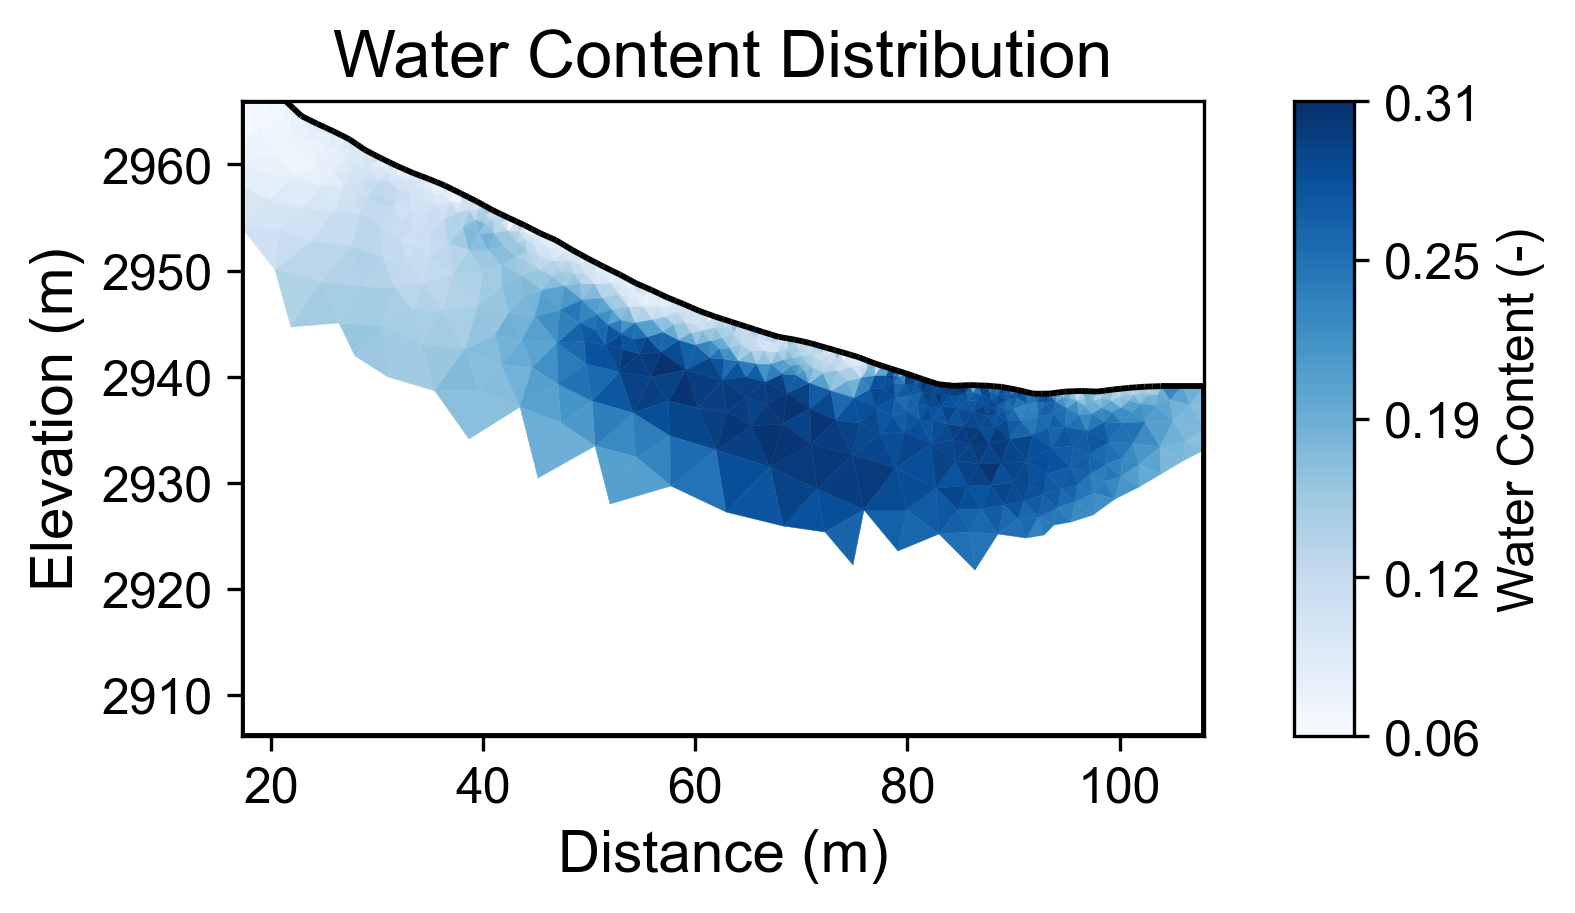
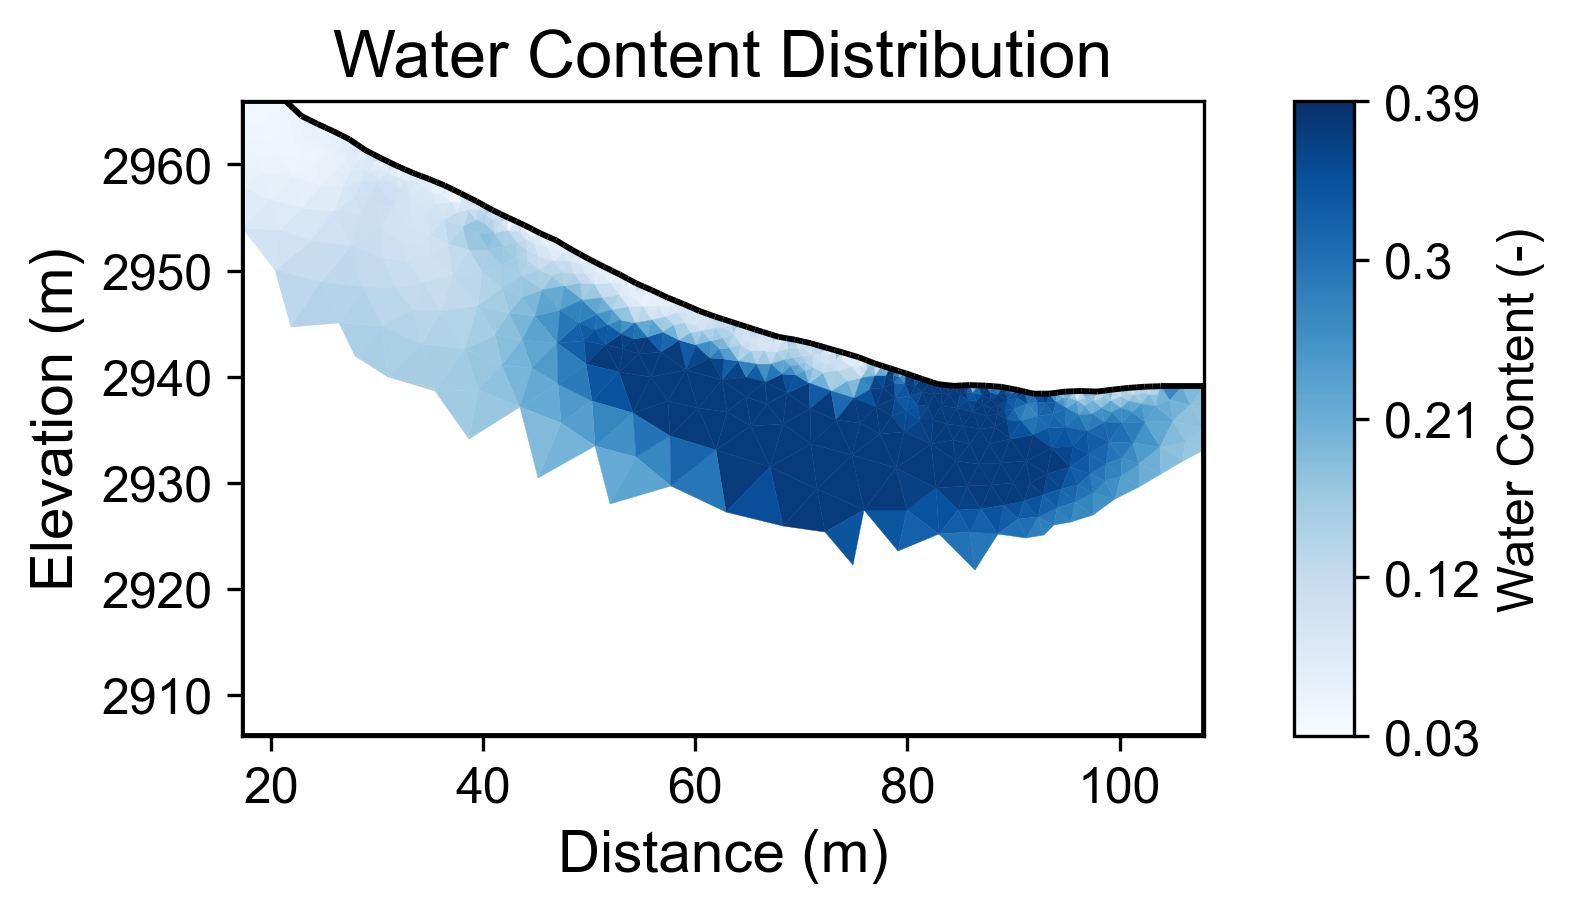
update

diff --git a/PyHydroGeophysX/agents/base_agent.py b/PyHydroGeophysX/agents/base_agent.py
@@ -1047,19 +1047,34 @@ Increasing resistivity indicates soil drying (evapotranspiration or drainage).
                 if layer_params_used:
                     for layer_name, params in layer_params_used.items():
                         params_summary += f"\n  - {layer_name}: "
+
+                        # Helper function to extract value (handles both dict with 'mean' and plain float)
+                        def get_param_value(param):
+                            if isinstance(param, dict):
+                                return param.get('mean', param.get('value', 0))
+                            return param
+
                         if 'rho_sat' in params:
-                            params_summary += f"ρ_sat={params['rho_sat']:.1f}Ωm, "
+                            val = get_param_value(params['rho_sat'])
+                            params_summary += f"ρ_sat={val:.1f}Ωm, "
                         if 'porosity' in params:
-                            params_summary += f"φ={params['porosity']:.2f}, "
+                            val = get_param_value(params['porosity'])
+                            params_summary += f"φ={val:.2f}, "
                         if 'n' in params:
-                            params_summary += f"n={params['n']:.2f}, "
+                            val = get_param_value(params['n'])
+                            params_summary += f"n={val:.2f}, "
                         if 'm' in params:
-                            params_summary += f"m={params['m']:.2f}"
+                            val = get_param_value(params['m'])
+                            params_summary += f"m={val:.2f}"
                 
+                # Format chi2 value safely
+                chi2_val = inversion_results.get('chi2', None)
+                chi2_str = f"{chi2_val:.3f}" if chi2_val is not None and isinstance(chi2_val, (int, float)) else 'N/A'
+
                 interpretation = f"""ERT inversion and petrophysical conversion completed successfully.
 
 **Inversion Results:**
-- Chi-squared misfit: {inversion_results.get('chi2', 'N/A'):.3f}
+- Chi-squared misfit: {chi2_str}
 - Iterations: {inversion_results.get('iterations', 'N/A')}
 
 **Petrophysical Conversion:**
@@ -1229,6 +1244,22 @@ Increasing resistivity indicates soil drying (evapotranspiration or drainage).
                 report_agent = ReportAgent(api_key=api_key, model=llm_model, llm_provider=llm_provider)
                 
                 # Create TDEM-specific report
+                # Format values safely
+                chi2_val = results.get('chi2', None)
+                chi2_str = f"{chi2_val:.3f}" if chi2_val is not None and isinstance(chi2_val, (int, float)) else 'N/A'
+
+                cond_range = results.get('conductivity_range', None)
+                if cond_range and len(cond_range) == 2:
+                    cond_str = f"{cond_range[0]:.4f} - {cond_range[1]:.4f} S/m"
+                else:
+                    cond_str = "N/A"
+
+                res_range = results.get('resistivity_range', None)
+                if res_range and len(res_range) == 2:
+                    res_str = f"{res_range[0]:.1f} - {res_range[1]:.1f} Ωm"
+                else:
+                    res_str = "N/A"
+
                 tdem_report = f"""# TDEM Inversion Report
 
 **Generated by:** PyHydroGeophysX TDEMAgent
@@ -1242,9 +1273,9 @@ Increasing resistivity indicates soil drying (evapotranspiration or drainage).
 
 ### Model Statistics
 - **Number of Layers:** {results.get('n_layers', 'N/A')}
-- **Chi-squared Misfit:** {results.get('chi2', 'N/A'):.3f}
-- **Conductivity Range:** {results.get('conductivity_range', ['N/A', 'N/A'])[0]:.4f} - {results.get('conductivity_range', ['N/A', 'N/A'])[1]:.4f} S/m
-- **Resistivity Range:** {results.get('resistivity_range', ['N/A', 'N/A'])[0]:.1f} - {results.get('resistivity_range', ['N/A', 'N/A'])[1]:.1f} Ωm
+- **Chi-squared Misfit:** {chi2_str}
+- **Conductivity Range:** {cond_str}
+- **Resistivity Range:** {res_str}
 
 ## Visualization
 

diff --git a/examples/results/streamlit_workflow/workflow_report.md b/examples/results/streamlit_workflow/workflow_report.md
@@ -3,34 +3,37 @@ Generated by PyHydroGeophysX Multi-Agent System
 
 # Executive Summary
 
-**Workflow Execution Date:** 2026-01-19 15:36:20
+**Workflow Execution Date:** 2026-01-19 18:13:43
 
 **Original User Request:**
 Run a standard ERT inversion using the DAS-1 instrument.
 Data file: 20171105_1418.Data
 Electrode file: electrodes.dat
+Petrophysics: rho_sat=541, porosity=0.37, n=1.24
+Regularization lambda: 15
 
 **Workflow Configuration:**
-- Data File: C:\Users\hchen117\AppData\Local\Temp\phgx_uploads_ayrralzn\20171105_1418.Data
+- Data File: C:\Users\hchen117\AppData\Local\Temp\phgx_uploads_fxbr_pcg\20171105_1418.Data
 - Instrument: DAS-1
 - Seismic Integration: No
 
 **Key Results:**
 - Loaded 56 electrodes with 930 measurements
 - Inversion converged in 4 iterations (chi2: 0.762)
+- Mean water content: 0.196
 
 
 ## Narrative Summary
 
 ### Executive Summary
 
-The objective of this workflow was to conduct a standard Electrical Resistivity Tomography (ERT) inversion using data collected from the DAS-1 instrument. The specific data file, collected on November 5, 2017, contained measurements from 56 electrodes, totaling 930 readings. The ERT inversion successfully converged in four iterations with a final chi-squared value of 0.762, indicating a good fit of the model to the observed data. However, it is important to note that no climate data was integrated into this workflow, limiting the potential for cross-modal analysis between geophysical results and climatic influences.
+This report details the execution of an Electrical Resistivity Tomography (ERT) inversion using data collected from the DAS-1 instrument, aimed at characterizing subsurface water content and its spatial distribution. The data, comprising 930 measurements from 56 electrodes, was processed with a focus on understanding resistivity variations in relation to hydrological conditions. The primary objectives were to derive resistivity models indicative of subsurface moisture and to assess the mean water content of the studied area, alongside evaluating the quality of the inversion results.
 
-The absence of climate data in this workflow presents a significant gap in interpreting the resistivity changes observed in the ERT inversion results. Resistivity is influenced by various factors, including water content, soil composition, and climate conditions such as precipitation and evapotranspiration. Typically, increased rainfall leads to higher water saturation in the subsurface, resulting in lower resistivity readings. Conversely, during drying periods, resistivity tends to increase as water is lost from the soil matrix. Without the corresponding climate data, it is challenging to contextualize the resistivity measurements accurately, which could lead to misinterpretations regarding subsurface conditions.
+Unfortunately, this workflow did not integrate any climate data, which is crucial for contextualizing the geophysical findings. Climate parameters such as precipitation, potential evapotranspiration (PET), and temperature trends are vital to understanding resistivity changes over time. Without these insights, the interpretation of resistivity variations linked to hydrological responses remains incomplete. In general, resistivity decreases as water content increases, which is anticipated during rainfall events, while drying periods tend to increase resistivity due to moisture depletion.
 
-Key findings from the ERT inversion indicate a successful convergence of the model, but the lack of water content analysis further complicates the interpretation of resistivity changes. It is essential to recognize that resistivity values can vary significantly based on seasonal climate variations, such as prolonged dry spells or intense rainfall events, which can alter subsurface moisture content. Notably, anomalies may exist in regions with heterogeneous soil types or varying land use, which could also affect resistivity readings. Furthermore, the absence of quality metrics for the data raises concerns regarding the reliability of the inversion results, as potential noise or errors in data collection may impact the final interpretation.
+The ERT inversion converged successfully after four iterations, yielding a final chi-squared value of 0.762, indicating a good fit between the observed and model-predicted data. The mean water content across the surveyed area was found to be 0.196, with a range from 0.034 to 0.370. Such variability suggests the presence of heterogeneities in the subsurface materials, likely influenced by local hydrological conditions. However, the lack of climatic context limits the ability to correlate these resistivity changes with specific events such as rainfall or drought periods.
 
-To enhance the robustness of future analyses, it is recommended to integrate relevant climate data, including precipitation, potential evapotranspiration (PET), and temperature, into the ERT workflow. This integration will enable a comprehensive understanding of how climate influences resistivity changes over time, facilitating more informed interpretations of subsurface conditions. Furthermore, conducting water content analysis in tandem with resistivity measurements would provide critical insights into the hydrological dynamics at play. Future workflows should prioritize the collection and integration of both geophysical and climate data to ensure a holistic understanding of the subsurface environment.
+Key findings from the analysis indicate that while the ERT inversion provided a reliable estimate of water content, the absence of climate data is a significant limitation. Future studies should prioritize the integration of climate data, particularly focusing on rainfall patterns and drying cycles, to establish a more comprehensive understanding of resistivity dynamics. Additionally, it is recommended to conduct further uncertainty analysis to refine the petrophysical parameters and improve the robustness of the resistivity models. This will enhance the interpretative power of the ERT results, ultimately leading to better-informed hydrological management strategies.
 
 
 ## Data Processing Summary
@@ -58,7 +61,7 @@ Climate data not available for cross-modal analysis.
 
 
 ### ERT Inversion
-- Final chi2: 0.7615703216184664
+- Final chi2: 0.7615703074874111
 - Iterations: 4
 - Convergence: Success
 
@@ -67,8 +70,23 @@ Climate data not available for cross-modal analysis.
 
 ## Water Content Analysis
 
-Water content conversion was not requested for this workflow.
-Only resistivity inversion results are available.
+
+### Water Content Statistics
+- Mean water content: 0.196
+- Range: [0.034, 0.370]
+
+### Uncertainty Analysis
+- Mean uncertainty (σ): 0.011
+- Maximum uncertainty: 0.017
+- Number of realizations: 100
+
+### Petrophysical Parameters (User-Specified)
+**User input parameters:** {'rho_sat': 541.0, 'porosity': 0.37, 'n': 1.24}
+
+**Parameters used per layer (means +/- std):**
+- **Regolith**: ρ_sat=541.000 ± 2.705 Ωm, n=1.240 ± 0.062, φ=0.370 ± 0.018
+
+**Interpretation:** N/A
 
 
 ## Visualizations
@@ -76,6 +94,12 @@ Only resistivity inversion results are available.
 ### Resistivity
 ![resistivity](resistivity_model.png)
 
+### Water Content
+![water_content](water_content.png)
+
+### Water Content Uncertainty
+![water_content_uncertainty](water_content_uncertainty.png)
+
 
 ---
-*Report generated on 2026-01-19 15:36:35*
+*Report generated on 2026-01-19 18:13:53*
